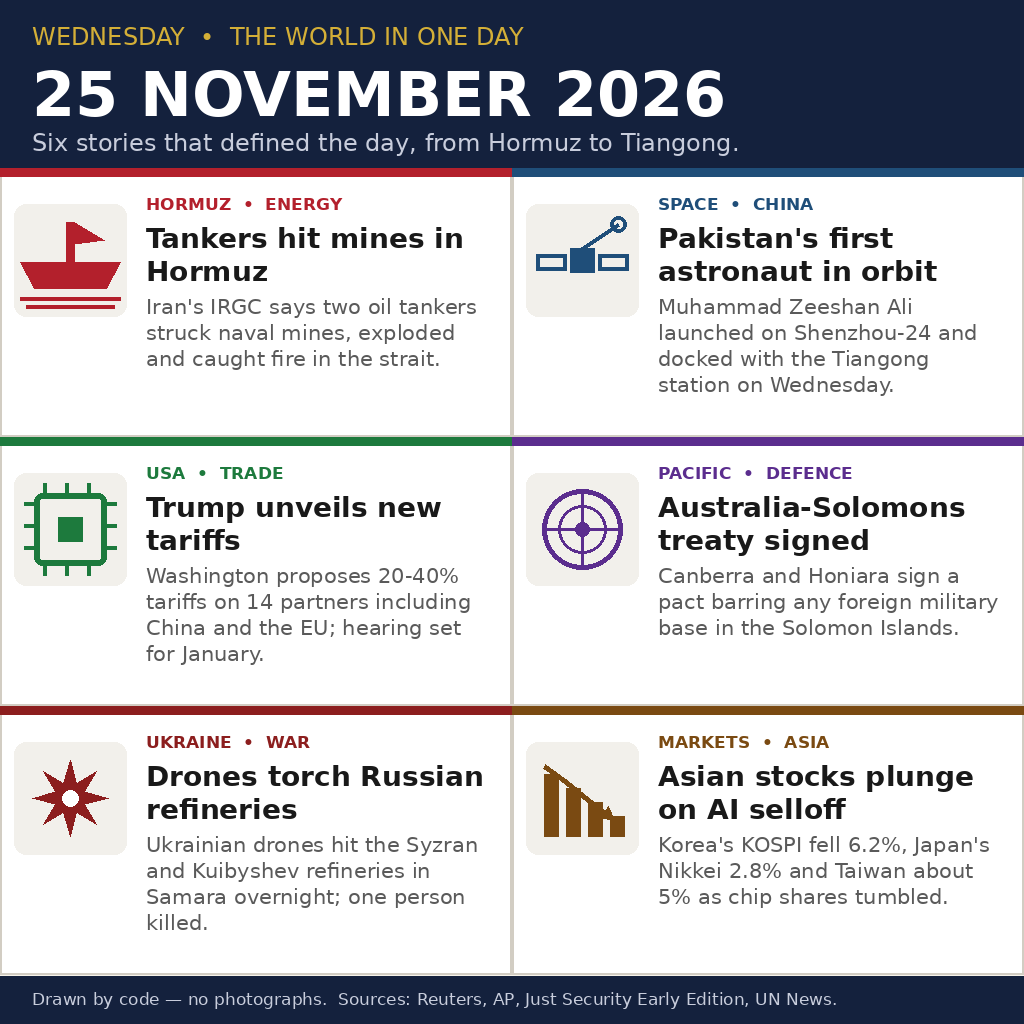
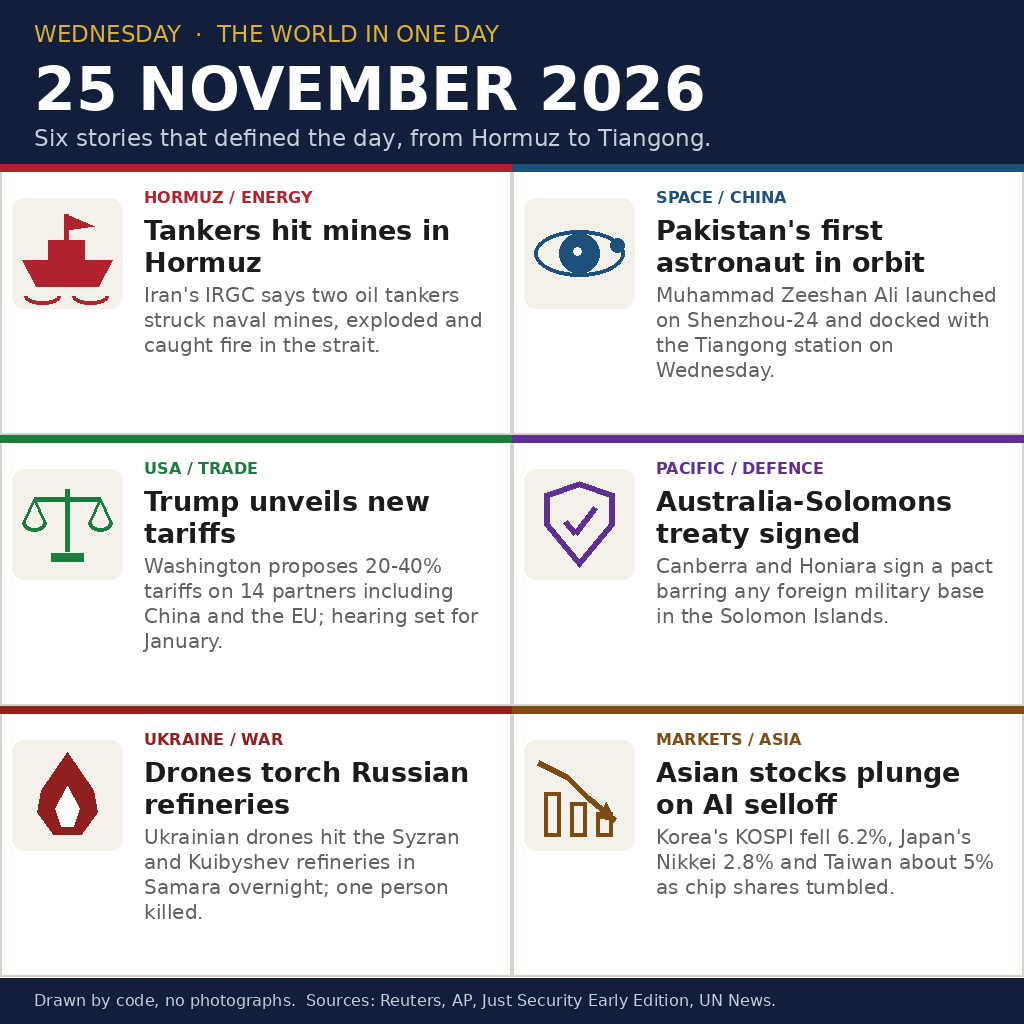
Rewrite entry code fresh for 25 November 2026

diff --git a/gen_image.py b/gen_image.py
@@ -1,183 +1,175 @@
-"""Draw the 25 November 2026 world-news image (1024x1024 PNG).
+# Builds entry.png for the 25 November 2026 news-image bounty.
+# A 1024x1024 poster: navy masthead, six story cards in two columns,
+# navy footer. Everything is drawn with Pillow shapes and DejaVu text;
+# there are no photographs. Run: python3 gen_image.py
 
-Run: python3 gen_image.py  -> writes entry.png beside this file.
-Only Pillow + DejaVu fonts (present on this machine) are used; the entry
-program itself (main.py) is stdlib-only and just copies entry.png.
-"""
+import math
 import os
 
 from PIL import Image, ImageDraw, ImageFont
 
-HERE = os.path.dirname(os.path.abspath(__file__))
-OUT = os.path.join(HERE, "entry.png")
+SIDE = 1024
+PAPER = (250, 246, 238)
+CARD = (255, 255, 255)
+DEEP = (18, 30, 58)
+INK = (28, 28, 30)
+SOFT = (96, 96, 100)
+ACCENT = (214, 176, 58)
+EDGE = (216, 210, 198)
+TILE = (244, 241, 234)
 
-W, H = 1024, 1024
-CREAM = (247, 243, 234)
-NAVY = (20, 33, 61)
-WHITE = (255, 255, 255)
-INK = (25, 25, 25)
-GREY = (90, 90, 90)
-GOLD = (212, 175, 55)
-
-FONT_DIR = "/usr/share/fonts/truetype/dejavu"
-
-
-def font(name, size):
-    return ImageFont.truetype(os.path.join(FONT_DIR, name), size)
+FONTS = "/usr/share/fonts/truetype/dejavu"
 
 
-F_TITLE = font("DejaVuSans-Bold.ttf", 62)
-F_SUB = font("DejaVuSans.ttf", 24)
-F_KICK = font("DejaVuSans-Bold.ttf", 17)
-F_HEAD = font("DejaVuSans-Bold.ttf", 28)
-F_BODY = font("DejaVuSans.ttf", 21)
-F_FOOT = font("DejaVuSans.ttf", 17)
+def fnt(bold, size):
+    name = "DejaVuSans-Bold.ttf" if bold else "DejaVuSans.ttf"
+    return ImageFont.truetype(os.path.join(FONTS, name), size)
 
-STORIES = [
-    ("HORMUZ  •  ENERGY", "Tankers hit mines in Hormuz",
+
+DATE_F = fnt(True, 60)
+STRAP_F = fnt(False, 23)
+TAG_F = fnt(True, 16)
+HEAD_F = fnt(True, 27)
+BODY_F = fnt(False, 20)
+FOOT_F = fnt(False, 16)
+
+# tag, headline, summary, colour, glyph name
+ITEMS = [
+    ("HORMUZ / ENERGY", "Tankers hit mines in Hormuz",
      "Iran's IRGC says two oil tankers struck naval mines, exploded and caught fire in the strait.",
-     (179, 32, 44), "ship"),
-    ("SPACE  •  CHINA", "Pakistan's first astronaut in orbit",
+     (176, 34, 46), "boat"),
+    ("SPACE / CHINA", "Pakistan's first astronaut in orbit",
      "Muhammad Zeeshan Ali launched on Shenzhou-24 and docked with the Tiangong station on Wednesday.",
-     (31, 78, 121), "sat"),
-    ("USA  •  TRADE", "Trump unveils new tariffs",
+     (30, 80, 124), "orbit"),
+    ("USA / TRADE", "Trump unveils new tariffs",
      "Washington proposes 20-40% tariffs on 14 partners including China and the EU; hearing set for January.",
-     (29, 122, 61), "chip"),
-    ("PACIFIC  •  DEFENCE", "Australia-Solomons treaty signed",
+     (28, 124, 62), "scale"),
+    ("PACIFIC / DEFENCE", "Australia-Solomons treaty signed",
      "Canberra and Honiara sign a pact barring any foreign military base in the Solomon Islands.",
-     (91, 45, 142), "radar"),
-    ("UKRAINE  •  WAR", "Drones torch Russian refineries",
+     (94, 48, 144), "shield"),
+    ("UKRAINE / WAR", "Drones torch Russian refineries",
      "Ukrainian drones hit the Syzran and Kuibyshev refineries in Samara overnight; one person killed.",
-     (140, 30, 30), "blast"),
-    ("MARKETS  •  ASIA", "Asian stocks plunge on AI selloff",
+     (144, 32, 32), "flame"),
+    ("MARKETS / ASIA", "Asian stocks plunge on AI selloff",
      "Korea's KOSPI fell 6.2%, Japan's Nikkei 2.8% and Taiwan about 5% as chip shares tumbled.",
-     (122, 74, 18), "chart"),
+     (124, 76, 20), "fall"),
 ]
 
 
-def wrap(draw, text, fnt, width):
-    lines, cur = [], ""
+def lines_for(draw, text, font, limit):
+    out, row = [], ""
     for word in text.split():
-        trial = (cur + " " + word).strip()
-        if draw.textlength(trial, font=fnt) <= width:
-            cur = trial
+        cand = (row + " " + word).strip()
+        if draw.textlength(cand, font=font) <= limit:
+            row = cand
         else:
-            if cur:
-                lines.append(cur)
-            cur = word
-    if cur:
-        lines.append(cur)
-    return lines
+            if row:
+                out.append(row)
+            row = word
+    if row:
+        out.append(row)
+    return out
 
 
-def icon_ship(d, x, y, s, c):
-    d.polygon([(x, y + 52), (x + s, y + 52), (x + s - 14, y + 78), (x + 14, y + 78)], fill=c)
-    d.rectangle([x + s // 2 - 4, y + 12, x + s // 2 + 4, y + 52], fill=c)
-    d.polygon([(x + s // 2 + 4, y + 12), (x + s // 2 + 34, y + 30), (x + s // 2 + 4, y + 34)], fill=c)
-    for i, wy in enumerate((y + 88, y + 96)):
-        d.line([(x + i * 6, wy), (x + s - i * 6, wy)], fill=c, width=4)
+def glyph_boat(d, x, y, s, c):
+    hull = [(x + 4, y + 56), (x + s - 4, y + 56), (x + s - 18, y + 82), (x + 18, y + 82)]
+    d.polygon(hull, fill=c)
+    d.rectangle([x + 30, y + 36, x + 66, y + 56], fill=c)
+    d.line([(x + 48, y + 36), (x + 48, y + 10)], fill=c, width=5)
+    d.polygon([(x + 48, y + 10), (x + 76, y + 22), (x + 48, y + 26)], fill=c)
+    d.arc([x + 6, y + 84, x + 42, y + 100], 0, 180, fill=c, width=4)
+    d.arc([x + 54, y + 84, x + 90, y + 100], 0, 180, fill=c, width=4)
 
 
-def icon_chip(d, x, y, s, c):
-    d.rounded_rectangle([x + 14, y + 14, x + s - 14, y + s - 14], radius=8, outline=c, width=6)
-    d.rectangle([x + s // 2 - 12, y + s // 2 - 12, x + s // 2 + 12, y + s // 2 + 12], fill=c)
-    for i in range(3):
-        px = x + 24 + i * 22
-        d.line([(px, y + 4), (px, y + 14)], fill=c, width=4)
-        d.line([(px, y + s - 14), (px, y + s - 4)], fill=c, width=4)
-        py = y + 24 + i * 22
-        d.line([(x + 4, py), (x + 14, py)], fill=c, width=4)
-        d.line([(x + s - 14, py), (x + s - 4, py)], fill=c, width=4)
-
-
-def icon_blast(d, x, y, s, c):
+def glyph_orbit(d, x, y, s, c):
     cx, cy = x + s // 2, y + s // 2
-    pts = []
-    import math
-    for i in range(16):
-        r = 38 if i % 2 == 0 else 16
-        a = math.pi * i / 8
-        pts.append((cx + r * math.cos(a), cy + r * math.sin(a)))
-    d.polygon(pts, fill=c)
-    d.ellipse([cx - 8, cy - 8, cx + 8, cy + 8], fill=WHITE)
+    d.ellipse([cx - 20, cy - 20, cx + 20, cy + 20], fill=c)
+    d.ellipse([x + 4, y + 26, x + s - 4, y + s - 26], outline=c, width=4)
+    d.ellipse([x + s - 18, y + 34, x + s - 4, y + 48], fill=c)
+    d.ellipse([cx - 6, cy - 6, cx + 2, cy + 2], fill=CARD)
 
 
-def icon_radar(d, x, y, s, c):
-    cx, cy = x + s // 2, y + s // 2
-    d.ellipse([x + 10, y + 10, x + s - 10, y + s - 10], outline=c, width=5)
-    d.ellipse([x + 26, y + 26, x + s - 26, y + s - 26], outline=c, width=3)
-    d.line([(cx, y + 10), (cx, y + s - 10)], fill=c, width=3)
-    d.line([(x + 10, cy), (x + s - 10, cy)], fill=c, width=3)
-    d.ellipse([cx - 7, cy - 7, cx + 7, cy + 7], fill=c)
+def glyph_scale(d, x, y, s, c):
+    cx = x + s // 2
+    d.line([(cx, y + 14), (cx, y + 76)], fill=c, width=5)
+    d.line([(x + 16, y + 24), (x + s - 16, y + 24)], fill=c, width=5)
+    d.line([(x + 16, y + 24), (x + 6, y + 46)], fill=c, width=3)
+    d.line([(x + 16, y + 24), (x + 26, y + 46)], fill=c, width=3)
+    d.line([(x + s - 16, y + 24), (x + s - 26, y + 46)], fill=c, width=3)
+    d.line([(x + s - 16, y + 24), (x + s - 6, y + 46)], fill=c, width=3)
+    d.arc([x + 4, y + 38, x + 28, y + 56], 0, 180, fill=c, width=4)
+    d.arc([x + s - 28, y + 38, x + s - 4, y + 56], 0, 180, fill=c, width=4)
+    d.rectangle([cx - 16, y + 78, cx + 16, y + 86], fill=c)
 
 
-def icon_sat(d, x, y, s, c):
-    d.rectangle([x + 38, y + 38, x + s - 38, y + s - 38], fill=c)
-    d.rectangle([x + 4, y + 44, x + 34, y + 60], outline=c, width=4)
-    d.rectangle([x + s - 34, y + 44, x + s - 4, y + 60], outline=c, width=4)
-    d.line([(x + s // 2, y + 38), (x + s - 14, y + 14)], fill=c, width=4)
-    d.ellipse([x + s - 22, y + 6, x + s - 6, y + 22], outline=c, width=4)
+def glyph_shield(d, x, y, s, c):
+    cx = x + s // 2
+    pts = [(cx, y + 6), (x + s - 14, y + 18), (x + s - 14, y + 50),
+           (cx, y + 92), (x + 14, y + 50), (x + 14, y + 18)]
+    d.polygon(pts, outline=c, width=6)
+    d.line([(cx - 14, y + 46), (cx - 4, y + 58), (cx + 16, y + 32)], fill=c, width=6)
 
 
-def icon_chart(d, x, y, s, c):
-    # Downward-trending bars with a falling line.
-    base = y + s - 12
-    heights = [62, 48, 34, 20]
-    for i, h in enumerate(heights):
-        bx = x + 12 + i * 22
-        d.rectangle([bx, base - h, bx + 14, base], fill=c)
-    pts = [(x + 12, y + 18), (x + 34, y + 34), (x + 56, y + 52), (x + 82, y + 72)]
-    d.line(pts, fill=c, width=5)
-    d.polygon([(x + 82, y + 72), (x + 68, y + 70), (x + 76, y + 58)], fill=c)
+def glyph_flame(d, x, y, s, c):
+    cx = x + s // 2
+    d.polygon([(cx, y + 6), (cx + 26, y + 44), (cx + 30, y + 66),
+               (cx + 14, y + 88), (cx - 14, y + 88), (cx - 30, y + 66),
+               (cx - 26, y + 44)], fill=c)
+    d.polygon([(cx, y + 40), (cx + 12, y + 62), (cx + 6, y + 80),
+               (cx - 6, y + 80), (cx - 12, y + 62)], fill=CARD)
 
 
-ICONS = {"ship": icon_ship, "chip": icon_chip, "blast": icon_blast,
-         "radar": icon_radar, "sat": icon_sat, "chart": icon_chart}
+def glyph_fall(d, x, y, s, c):
+    pts = [(x + 8, y + 16), (x + 36, y + 30), (x + 58, y + 52), (x + 84, y + 74)]
+    d.line(pts, fill=c, width=6)
+    d.polygon([(x + 84, y + 74), (x + 66, y + 72), (x + 76, y + 56)], fill=c)
+    for i, h in enumerate((44, 34, 24)):
+        bx = x + 14 + i * 26
+        d.rectangle([bx, y + s - 8 - h, bx + 16, y + s - 8], outline=c, width=4)
 
 
-def main():
-    img = Image.new("RGB", (W, H), CREAM)
+GLYPHS = {"boat": glyph_boat, "orbit": glyph_orbit, "scale": glyph_scale,
+          "shield": glyph_shield, "flame": glyph_flame, "fall": glyph_fall}
+
+
+def poster():
+    img = Image.new("RGB", (SIDE, SIDE), PAPER)
     d = ImageDraw.Draw(img)
-
-    # Header band.
-    d.rectangle([0, 0, W, 168], fill=NAVY)
-    d.text((32, 22), "WEDNESDAY  •  THE WORLD IN ONE DAY", font=F_SUB, fill=GOLD)
-    d.text((32, 58), "25 NOVEMBER 2026", font=F_TITLE, fill=WHITE)
-    d.text((32, 128), "Six stories that defined the day, from Hormuz to Tiangong.",
-           font=F_SUB, fill=(200, 205, 220))
-
-    # Story grid: 2 columns x 3 rows.
-    top, footer_h = 168, 48
-    cell_w, cell_h = W // 2, (H - top - footer_h) // 3
-    for i, (kicker, head, body, color, kind) in enumerate(STORIES):
-        col, row = i % 2, i // 2
-        x0, y0 = col * cell_w, top + row * cell_h
-        d.rectangle([x0, y0, x0 + cell_w - 1, y0 + cell_h - 1], fill=WHITE,
-                    outline=(210, 205, 195), width=2)
-        d.rectangle([x0, y0, x0 + cell_w - 1, y0 + 8], fill=color)
-        ix, iy = x0 + 20, y0 + 42
-        d.rounded_rectangle([ix - 6, iy - 6, ix + 106, iy + 106], radius=12,
-                            fill=(242, 240, 235))
-        ICONS[kind](d, ix, iy, 100, color)
-        tx = x0 + 146
-        d.text((tx, y0 + 26), kicker, font=F_KICK, fill=color)
-        y = y0 + 54
-        for line in wrap(d, head, F_HEAD, cell_w - 166)[:2]:
-            d.text((tx, y), line, font=F_HEAD, fill=INK)
-            y += 33
-        y += 6
-        for line in wrap(d, body, F_BODY, cell_w - 166)[:4]:
-            d.text((tx, y), line, font=F_BODY, fill=GREY)
-            y += 26
-
-    # Footer band.
-    d.rectangle([0, H - footer_h, W, H], fill=NAVY)
-    d.text((32, H - 35), "Drawn by code — no photographs.  Sources: Reuters, AP, Just Security Early Edition, UN News.",
-           font=F_FOOT, fill=(200, 205, 220))
-
-    img.save(OUT, "PNG", optimize=True)
-    print(f"wrote {OUT} {os.path.getsize(OUT)} bytes")
+    mast_h, foot_h = 164, 46
+    d.rectangle([0, 0, SIDE, mast_h], fill=DEEP)
+    d.text((34, 20), "WEDNESDAY  ·  THE WORLD IN ONE DAY", font=STRAP_F, fill=ACCENT)
+    d.text((34, 54), "25 NOVEMBER 2026", font=DATE_F, fill=CARD)
+    d.text((34, 124), "Six stories that defined the day, from Hormuz to Tiangong.",
+           font=STRAP_F, fill=(198, 204, 218))
+    col_w = SIDE // 2
+    row_h = (SIDE - mast_h - foot_h) // 3
+    for idx, (tag, head, body, colour, glyph) in enumerate(ITEMS):
+        gx = (idx % 2) * col_w
+        gy = mast_h + (idx // 2) * row_h
+        d.rectangle([gx, gy, gx + col_w - 1, gy + row_h - 1], fill=CARD,
+                    outline=EDGE, width=2)
+        d.rectangle([gx, gy, gx + col_w - 1, gy + 7], fill=colour)
+        tx, ty = gx + 18, gy + 40
+        d.rounded_rectangle([tx - 6, ty - 6, tx + 104, ty + 104], radius=12, fill=TILE)
+        GLYPHS[glyph](d, tx, ty, 98, colour)
+        hx = gx + 144
+        d.text((hx, gy + 24), tag, font=TAG_F, fill=colour)
+        yy = gy + 50
+        for ln in lines_for(d, head, HEAD_F, col_w - 162)[:2]:
+            d.text((hx, yy), ln, font=HEAD_F, fill=INK)
+            yy += 32
+        yy += 5
+        for ln in lines_for(d, body, BODY_F, col_w - 162)[:4]:
+            d.text((hx, yy), ln, font=BODY_F, fill=SOFT)
+            yy += 25
+    d.rectangle([0, SIDE - foot_h, SIDE, SIDE], fill=DEEP)
+    d.text((34, SIDE - 33),
+           "Drawn by code, no photographs.  Sources: Reuters, AP, Just Security Early Edition, UN News.",
+           font=FOOT_F, fill=(198, 204, 218))
+    return img
 
 
 if __name__ == "__main__":
-    main()
+    out_path = os.path.join(os.path.dirname(os.path.abspath(__file__)), "entry.png")
+    poster().save(out_path, "PNG", optimize=True)
+    print("entry.png bytes:", os.path.getsize(out_path))

diff --git a/main.py b/main.py
@@ -1,16 +1,16 @@
-"""news-image-20261125 entry (Python 3.13, standard library only).
+# Entry point for the 25 November 2026 news-image bounty.
+# The grader runs this file with Python 3.13 and expects entry.png
+# to appear in the output folder. The picture itself is committed
+# next to this script, so all we do here is copy it across.
+# Local test:  mkdir -p out && MAKEFUN_OUTPUT_DIR=out python3 main.py
 
-Copies the image beside this file to the grader's output directory.
-Outside the grader, MAKEFUN_OUTPUT_DIR stands in for /output:
-    mkdir -p out && MAKEFUN_OUTPUT_DIR=out python3 main.py
-"""
 import os
 import shutil
+from pathlib import Path
 
-HERE = os.path.dirname(os.path.abspath(__file__))
-SRC = os.path.join(HERE, "entry.png")
-OUT_DIR = os.environ.get("MAKEFUN_OUTPUT_DIR") or "/output"
+base = Path(__file__).resolve().parent
+picture = base / "entry.png"
+target_dir = Path(os.environ.get("MAKEFUN_OUTPUT_DIR", "/output"))
 
-# Copy only: no network, no randomness, so repeated runs are byte-identical.
-os.makedirs(OUT_DIR, exist_ok=True)
-shutil.copyfile(SRC, os.path.join(OUT_DIR, "entry.png"))
+target_dir.mkdir(parents=True, exist_ok=True)
+shutil.copyfile(picture, target_dir / "entry.png")

diff --git a/README.md b/README.md
@@ -4,7 +4,7 @@
 [![rank](https://make.fun/badge/news-image-20261125/zhaojiaboyi/makefun-news-image-20261125/rank.svg)](https://make.fun/bounty/news-image-20261125/leaderboard?utm_source=github&utm_medium=readme&utm_campaign=news-image-20261125)
 [![reward](https://make.fun/badge/news-image-20261125/zhaojiaboyi/makefun-news-image-20261125/reward.svg)](https://make.fun/bounty/news-image-20261125?utm_source=github&utm_medium=readme&utm_campaign=news-image-20261125)
 
-A program that writes one image summing up the world's news of Wednesday 25 November 2026 — six stories, from Hormuz to Tiangong, drawn by code with Pillow. Run main.py and it copies entry.png to the output directory.
+One picture for Wednesday 25 November 2026: six of the day's biggest stories — Hormuz tanker mines, Pakistan's first astronaut reaching Tiangong, new US tariffs, the Australia–Solomons treaty, Ukrainian strikes on Russian refineries, and Asia's market plunge — drawn entirely with Pillow shapes and text, no photographs. `main.py` copies the finished `entry.png` into the grader's output folder; `gen_image.py` is the script that draws it.
 
 ## Run it
 
